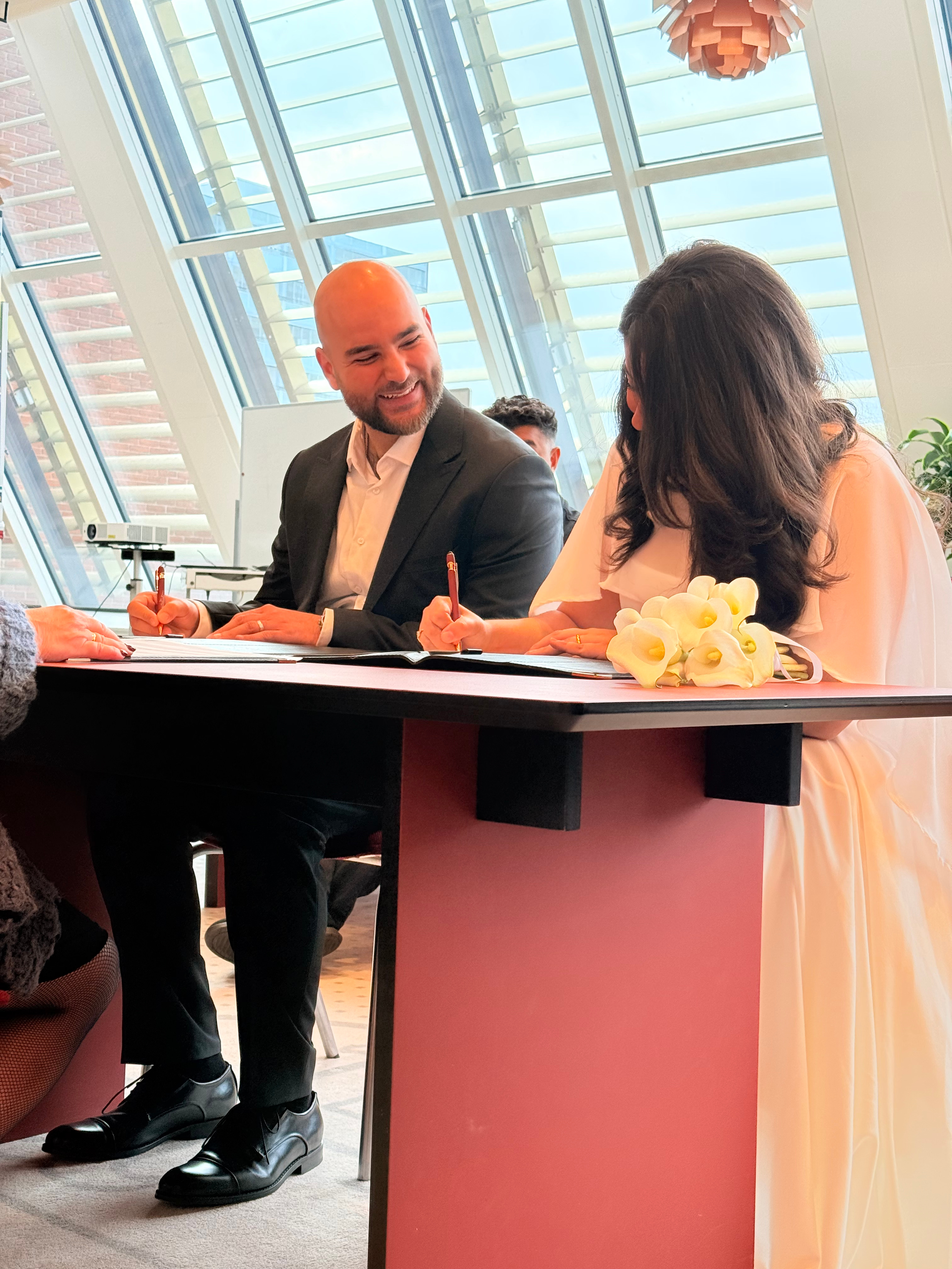
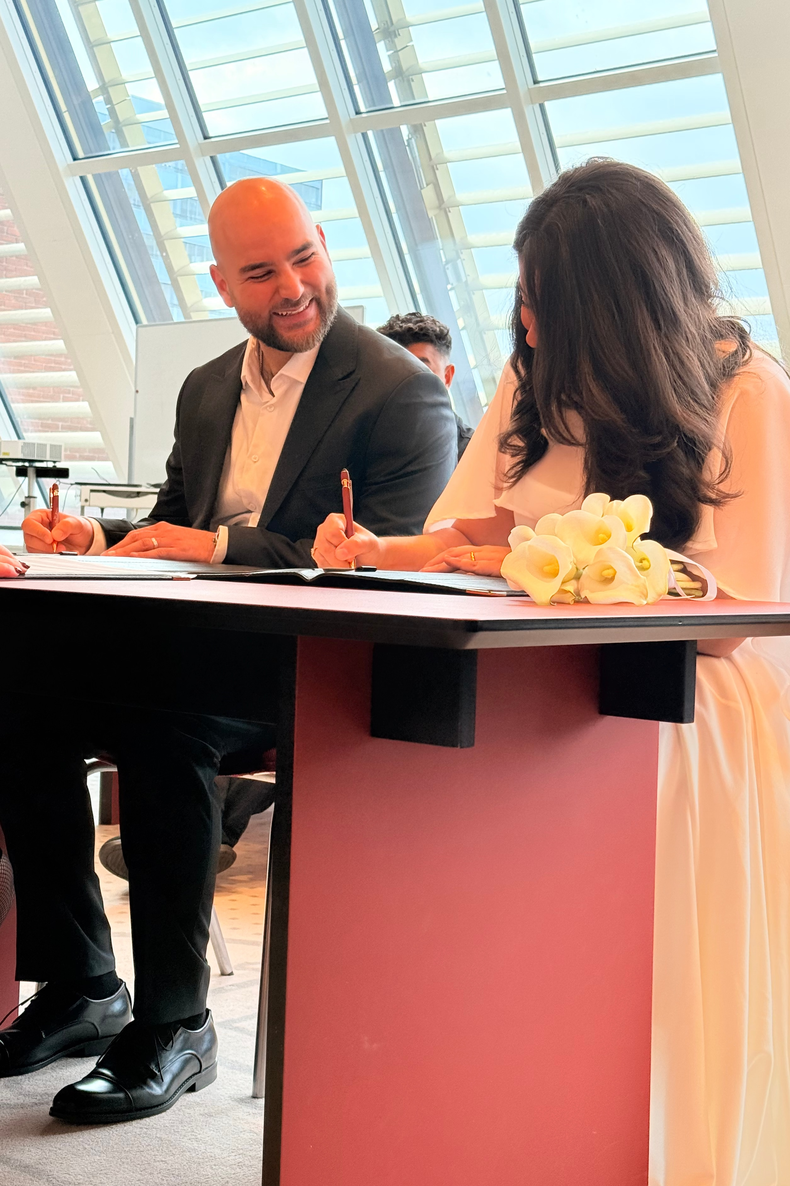
styling done

diff --git a/src/content/wedding.ts b/src/content/wedding.ts
@@ -1,6 +1,6 @@
 /**
  * Eneste kilde til sandhed for alt indhold på siden.
- * Ret tekster, tider og links her — ikke inde i komponenterne.
+ * Ret tekster, tider og links her - ikke inde i komponenterne.
  * Tekster skrives på både dansk (da) og engelsk (en).
  */
 
@@ -9,8 +9,8 @@ import { compose, type Text } from '../i18n';
 export const site = {
   url: 'https://aliogberfin.dk',
   title: {
-    da: 'Ali & Berfin — 12. december 2026',
-    en: 'Ali & Berfin — 12 December 2026',
+    da: 'Ali & Berfin - 12. december 2026',
+    en: 'Ali & Berfin - 12 December 2026',
   } satisfies Text,
   description: {
     da: 'Vi skal giftes! Ali Haider Mohammad og Berfin Flora Turan inviterer til bryllup lørdag den 12. december 2026 i Nisa Event Center, Ishøj.',
@@ -133,26 +133,6 @@ export const program: ProgramItem[] = [
   },
 ];
 
-/** Adressen skrives ét sted, så teksterne aldrig kan komme til at pege forkert. */
-const fullAddress = `${venue.street}, ${venue.postalCode} ${venue.city}`;
-
-export const transport: { title: Text; body: Text }[] = [
-  {
-    title: { da: 'Med tog', en: 'By train' },
-    body: {
-      da: 'Tag S-toget linje A eller E til Ishøj Station. Derfra er der cirka 3 km til lokalet — tag bus eller taxa den sidste del af vejen.',
-      en: 'Take S-train line A or E to Ishøj Station. From there it is about 3 km to the venue — take a bus or taxi for the last part of the way.',
-    },
-  },
-  {
-    title: { da: 'I bil', en: 'By car' },
-    body: {
-      da: `Sæt ${fullAddress} i GPS\u2019en. Der er gratis parkering ved adressen.`,
-      en: `Enter ${fullAddress} in your GPS. There is free parking at the address.`,
-    },
-  },
-];
-
 export const photoShare = {
   eyebrow: { da: 'Øjeblikke', en: 'Moments' } satisfies Text,
   heading: { da: 'Del billeder', en: 'Share photos' } satisfies Text,
@@ -169,10 +149,9 @@ export const photoShare = {
     da: 'Del dine billeder',
     en: 'Share your photos',
   } satisfies Text,
-  linkHint: { da: 'Eller åbn linket:', en: 'Or open the link:' } satisfies Text,
   photoAlt: {
-    da: 'Ali frier til Berfin på knæ under en bue af røde roser',
-    en: 'Ali proposing to Berfin on one knee beneath an arch of red roses',
+    da: 'Ali og Berfin smiler med vielsesattesten efter vielsen',
+    en: 'Ali and Berfin smiling with their marriage certificate after the ceremony',
   } satisfies Text,
 } as const;
 

diff --git a/tests/indhold.spec.ts b/tests/indhold.spec.ts
@@ -6,7 +6,7 @@ import { expect, test } from '@playwright/test';
  */
 
 test.beforeEach(async ({ page }) => {
-  // Gæstebogen har sin egen testfil — her holder vi den ude af vejen,
+  // Gæstebogen har sin egen testfil - her holder vi den ude af vejen,
   // så indholdstestene ikke afhænger af netværket.
   await page.route('**/api/guestbook', (route) =>
     route.fulfill({ json: { entries: [] } }),
@@ -39,7 +39,7 @@ test.describe('forside', () => {
 
   test('siden er på dansk', async ({ page }) => {
     await expect(page.locator('html')).toHaveAttribute('lang', 'da');
-    await expect(page).toHaveTitle('Ali & Berfin — 12. december 2026');
+    await expect(page).toHaveTitle('Ali & Berfin - 12. december 2026');
   });
 
   test('intet vandret overløb', async ({ page }) => {
@@ -129,7 +129,7 @@ test.describe('program', () => {
   });
 });
 
-test.describe('sted & transport', () => {
+test.describe('lokation', () => {
   test('viser navn og fuld adresse', async ({ page }) => {
     const section = page.locator('#sted');
     await expect(section).toContainText('Nisa Event Center');
@@ -173,12 +173,6 @@ test.describe('sted & transport', () => {
   test('kortet har en beskrivende titel', async ({ page }) => {
     const title = await page.locator('#sted iframe').getAttribute('title');
     expect(title).toContain('Nisa Event Center');
-  });
-
-  test('viser transportmuligheder', async ({ page }) => {
-    const section = page.locator('#sted');
-    await expect(section.getByText('Med tog')).toBeVisible();
-    await expect(section.getByText('I bil')).toBeVisible();
   });
 });
 

diff --git a/tests/sprog.spec.ts b/tests/sprog.spec.ts
@@ -43,7 +43,7 @@ test.describe('sprogvælger', () => {
       'aria-pressed',
       'true',
     );
-    await expect(page).toHaveTitle('Ali & Berfin — 12 December 2026');
+    await expect(page).toHaveTitle('Ali & Berfin - 12 December 2026');
 
     const hero = page.locator('#top');
     await expect(hero.getByText('Saturday 12 December 2026')).toBeVisible();
@@ -58,7 +58,9 @@ test.describe('sprogvælger', () => {
     await expect(page.locator('#program ol > li h3').first()).toHaveText(
       'Welcome',
     );
-    await expect(page.locator('#sted').getByText('By train')).toBeVisible();
+    await expect(
+      page.locator('#sted').getByText(/we begin at 16:00/),
+    ).toBeVisible();
     await expect(page.getByText('There are no messages yet.')).toBeVisible();
     await expect(page.getByLabel('Your name')).toBeVisible();
     await expect(
@@ -100,7 +102,7 @@ test.describe('sprogvælger', () => {
     await expect(page.locator('html')).toHaveAttribute('lang', 'da');
     await expect(page.locator('#program h2')).toHaveText('Program');
     await expect(page.getByText('Der er ingen hilsner endnu.')).toBeVisible();
-    await expect(page).toHaveTitle('Ali & Berfin — 12. december 2026');
+    await expect(page).toHaveTitle('Ali & Berfin - 12. december 2026');
   });
 
   test('husker valget ved næste besøg', async ({ page }) => {

diff --git a/netlify/functions/guestbook.ts b/netlify/functions/guestbook.ts
@@ -3,7 +3,7 @@ import { getStore } from '@netlify/blobs';
 
 /**
  * Proxy mellem siden og Google Apps Script.
- * URL og hemmelighed ligger kun her på serveren — aldrig i browseren.
+ * URL og hemmelighed ligger kun her på serveren - aldrig i browseren.
  */
 
 const MAX_NAME = 80;
@@ -23,7 +23,7 @@ const json = (body: unknown, statusCode: number) =>
 
 /**
  * Tæller indsendelser pr. IP i Netlify Blobs.
- * Blobs deles på tværs af funktionsinstanser — en tæller i hukommelsen ville
+ * Blobs deles på tværs af funktionsinstanser - en tæller i hukommelsen ville
  * blive nulstillet ved hver kold start og derfor reelt ikke begrænse noget.
  */
 const isRateLimited = async (ip: string) => {
@@ -42,7 +42,7 @@ const isRateLimited = async (ip: string) => {
     await store.setJSON(key, recent);
     return recent.length > RATE_LIMIT_MAX;
   } catch (error) {
-    // Blobs utilgængelig — bloker ikke rigtige gæster på grund af det.
+    // Blobs utilgængelig - bloker ikke rigtige gæster på grund af det.
     console.warn('Kunne ikke tjekke hastighedsgrænsen:', error);
     return false;
   }

diff --git a/src/styles/global.css b/src/styles/global.css
@@ -1,7 +1,7 @@
 @import 'tailwindcss';
 
 @theme {
-  /* Farver — dæmpet, elegant palet */
+  /* Farver - dæmpet, elegant palet */
   --color-canvas: #faf7f2;
   --color-surface: #ffffff;
   --color-sand: #ece3d7;
@@ -17,7 +17,7 @@
   --font-body:
     'Inter', -apple-system, BlinkMacSystemFont, 'Segoe UI', sans-serif;
 
-  /* Flydende skala — mobil først, skalerer op */
+  /* Flydende skala - mobil først, skalerer op */
   --text-hero: clamp(2.75rem, 14vw, 7rem);
   --text-section: clamp(1.75rem, 7vw, 3rem);
   --text-lead: clamp(1.0625rem, 3.5vw, 1.25rem);
@@ -145,7 +145,7 @@
   }
 }
 
-/* Blid indtoning ved scroll — slås fra for dem der foretrækker mindre bevægelse */
+/* Blid indtoning ved scroll - slås fra for dem der foretrækker mindre bevægelse */
 @media (prefers-reduced-motion: no-preference) {
   .reveal {
     opacity: 0;

diff --git a/tests/billeder-privatliv.spec.ts b/tests/billeder-privatliv.spec.ts
@@ -29,7 +29,7 @@ test.describe('del billeder', () => {
 
   test('linket peger på upload-siden og åbner i ny fane', async ({ page }) => {
     const links = page.locator(`#billeder a[href="${SHARE_URL}"]`);
-    await expect(links).toHaveCount(2);
+    await expect(links).toHaveCount(1);
 
     for (const link of await links.all()) {
       await expect(link).toHaveAttribute('target', '_blank');
@@ -39,14 +39,6 @@ test.describe('del billeder', () => {
     await expect(
       page.getByRole('link', { name: 'Del dine billeder' }),
     ).toBeVisible();
-  });
-
-  test('viser adressen som tekst, hvis QR-koden ikke kan bruges', async ({
-    page,
-  }) => {
-    await expect(page.locator('#billeder')).toContainText(
-      'join.once.film/f/Mu4oCyqC',
-    );
   });
 });
 

diff --git a/tests/gaestebog.spec.ts b/tests/gaestebog.spec.ts
@@ -7,7 +7,7 @@ import {
 } from './support/helpers';
 
 /**
- * Gæstebogen i browseren — formular, validering, moderation og sikkerhed.
+ * Gæstebogen i browseren - formular, validering, moderation og sikkerhed.
  */
 
 const goto = async (page: import('@playwright/test').Page) => {
@@ -71,7 +71,7 @@ test.describe('visning af hilsner', () => {
     );
     await goto(page);
 
-    // Ingen fejl i brugerens ansigt — bare den tomme tilstand.
+    // Ingen fejl i brugerens ansigt - bare den tomme tilstand.
     await expect(page.locator('#gaestebog')).toBeVisible();
     await expect(page.getByText('Der er ingen hilsner endnu.')).toBeVisible();
   });

diff --git a/tests/api.spec.ts b/tests/api.spec.ts
@@ -9,7 +9,7 @@ import {
 
 /**
  * Kontrakt for /api/guestbook (Netlify-funktionen).
- * Kører uden browser — vi tester funktionen direkte.
+ * Kører uden browser - vi tester funktionen direkte.
  */
 
 const post = (data: unknown) => ({
@@ -206,7 +206,7 @@ test.describe('gæstebog-api', () => {
     await setMockFailure(request, 'error');
     const res = await request.get('/api/guestbook');
 
-    // Siden skal stadig kunne vises — bare uden hilsner.
+    // Siden skal stadig kunne vises - bare uden hilsner.
     expect(res.status()).toBe(200);
     expect(await res.json()).toEqual({ entries: [] });
   });

diff --git a/playwright.config.ts b/playwright.config.ts
@@ -3,7 +3,7 @@ import { defineConfig, devices } from '@playwright/test';
 /**
  * Testene kører mod Netlify Dev, så både den statiske side og
  * gæstebogsfunktionen (/api/guestbook) testes som i produktion.
- * Apps Script erstattes af en lokal mock — se tests/support/mock-apps-script.mjs.
+ * Apps Script erstattes af en lokal mock - se tests/support/mock-apps-script.mjs.
  */
 
 export const MOCK_PORT = 9999;

diff --git a/plan.md b/plan.md
@@ -1,4 +1,4 @@
-# Plan: Bryllupssite — aliogberfin.dk
+# Plan: Bryllupssite - aliogberfin.dk
 
 A Danish, mobile-first, elegant one-page wedding invitation built with **Astro + Tailwind CSS**,
 deployed to **Netlify** from day one so there is always a shareable link. Five sections, one small
@@ -14,16 +14,16 @@ backend (the guestbook). Countdown targets **12. december 2026, kl. 16:00** at
 
 ## Steps
 
-### Phase 1 — Scaffold & first deploy (blocks everything)
+### Phase 1 - Scaffold & first deploy (blocks everything)
 
 1. Initialise Astro 5 with TypeScript, add Tailwind CSS v4, Prettier and a `.nvmrc`.
    Set `output: 'static'`, `site: 'https://aliogberfin.dk'`, `lang="da"`.
 2. Create `netlify.toml` (build command, publish dir, Node version, security headers).
    Connect the repo to Netlify and confirm the temporary `*.netlify.app` URL renders.
 
-### Phase 2 — Design foundation (depends on 1)
+### Phase 2 - Design foundation (depends on 1)
 
-3. Define design tokens in `src/styles/global.css` — restrained palette
+3. Define design tokens in `src/styles/global.css` - restrained palette
    (off-white / warm sand / deep ink / one accent), a serif display font paired with a clean
    sans, fluid type scale, generous whitespace. Mobile-first breakpoints that only scale _up_.
 4. Build the shell: `BaseLayout.astro`, sticky nav collapsing to a hamburger sheet on mobile,
@@ -33,36 +33,36 @@ backend (the guestbook). Countdown targets **12. december 2026, kl. 16:00** at
    `2026-12-12T16:00:00+01:00` with Danish labels (dage / timer / minutter / sekunder)
    and an "I dag er dagen!" end state.
 
-### Phase 3 — Content sections (depends on 2; steps 6–8 parallel)
+### Phase 3 - Content sections (depends on 2; steps 6–8 parallel)
 
-6. `Program` — vertical timeline anchored on the confirmed **16:00** start, with the later items
+6. `Program` - vertical timeline anchored on the confirmed **16:00** start, with the later items
    (reception, middag, fest) as clearly-marked placeholders in a data file, editable in one line.
-7. `Sted & transport` — venue card for Nisa Event Center, Industrivangen 26, 2635 Ishøj;
+7. `Sted & transport` - venue card for Nisa Event Center, Industrivangen 26, 2635 Ishøj;
    embedded OpenStreetMap iframe with coordinates geocoded from the real address (verified
    visually, not guessed), plus buttons deep-linking to Google Maps and Apple Maps. No API key.
    A short note on S-tog to Ishøj Station and parking goes here once details are confirmed.
-8. `FAQ` — native `<details>/<summary>` accordion, zero JavaScript, fully accessible.
+8. `FAQ` - native `<details>/<summary>` accordion, zero JavaScript, fully accessible.
    Starts with a few placeholder questions to edit.
 
-### Phase 4 — Gallery & guestbook (depends on 2; step 9 parallel with 10–11)
+### Phase 4 - Gallery & guestbook (depends on 2; step 9 parallel with 10–11)
 
-9. `Galleri` — Astro's `<Image>` for automatic responsive/WebP output, fed by placeholders in
+9. `Galleri` - Astro's `<Image>` for automatic responsive/WebP output, fed by placeholders in
    `src/assets/gallery/` with Danish alt text, plus a lightweight tap-to-enlarge lightbox.
    Real photos later are a drop-in swap.
 10. Create the Google Sheet with a `Gaestebog` tab and attach an Apps Script Web App exposing
     `doPost` (append) and `doGet` (return approved entries), guarded by a shared secret and
     deployed as "Anyone".
-11. Build `netlify/functions/guestbook.ts` — validates name + message, checks a honeypot field,
+11. Build `netlify/functions/guestbook.ts` - validates name + message, checks a honeypot field,
     applies a per-IP rate limit, then forwards to Apps Script using `APPS_SCRIPT_URL` and
     `APPS_SCRIPT_SECRET` from Netlify env vars. Secrets never reach the browser. The section
     renders approved entries fetched on page load; moderation is a checkbox in the sheet.
 
-### Phase 5 — Domain, privacy & polish (depends on all)
+### Phase 5 - Domain, privacy & polish (depends on all)
 
 12. Register `aliogberfin.dk` via a DK Hostmaster-accredited registrar (Simply.com, one.com,
     UnoEuro), point DNS at Netlify, enable the free Let's Encrypt certificate and HTTPS redirect.
 13. Privacy: `robots.txt` with `Disallow: /`, `<meta name="robots" content="noindex, nofollow">`,
-    no sitemap — the link works for anyone it is sent to but won't surface in Google.
+    no sitemap - the link works for anyone it is sent to but won't surface in Google.
 14. Polish: Open Graph / social preview card so the link looks good in WhatsApp and iMessage,
     favicon, `prefers-reduced-motion` support, keyboard navigation, colour-contrast check,
     Lighthouse tuning.
@@ -71,19 +71,19 @@ backend (the guestbook). Countdown targets **12. december 2026, kl. 16:00** at
 
 All to be created:
 
-- `astro.config.mjs` — static output, site URL, Tailwind integration
-- `netlify.toml` — build settings, functions directory, security headers
-- `src/layouts/BaseLayout.astro` — `lang="da"`, meta/OG tags, noindex
-- `src/pages/index.astro` — composes the sections in order
-- `src/components/` — `Nav.astro`, `Hero.astro`, `Countdown.astro`, `Program.astro`,
+- `astro.config.mjs` - static output, site URL, Tailwind integration
+- `netlify.toml` - build settings, functions directory, security headers
+- `src/layouts/BaseLayout.astro` - `lang="da"`, meta/OG tags, noindex
+- `src/pages/index.astro` - composes the sections in order
+- `src/components/` - `Nav.astro`, `Hero.astro`, `Countdown.astro`, `Program.astro`,
   `Venue.astro`, `Gallery.astro`, `Faq.astro`, `Guestbook.astro`, `Footer.astro`
-- `src/content/wedding.ts` — **single source of truth** for all Danish copy, the date/time,
+- `src/content/wedding.ts` - **single source of truth** for all Danish copy, the date/time,
   venue address, map coordinates and links. Edit here, never in components.
-- `src/styles/global.css` — Tailwind v4 `@theme` tokens, fonts, base styles
-- `netlify/functions/guestbook.ts` — validation + forwarding
-- `google-apps-script/Code.gs` — kept in-repo for reference, pasted into the Apps Script editor
-- `public/robots.txt`, `public/favicon.svg`, `src/assets/` — placeholders
-- `.env.example` — documents `APPS_SCRIPT_URL`, `APPS_SCRIPT_SECRET`
+- `src/styles/global.css` - Tailwind v4 `@theme` tokens, fonts, base styles
+- `netlify/functions/guestbook.ts` - validation + forwarding
+- `google-apps-script/Code.gs` - kept in-repo for reference, pasted into the Apps Script editor
+- `public/robots.txt`, `public/favicon.svg`, `src/assets/` - placeholders
+- `.env.example` - documents `APPS_SCRIPT_URL`, `APPS_SCRIPT_SECRET`
 
 ## Verification
 
@@ -104,17 +104,17 @@ All to be created:
 
 ## Decisions
 
-- **Danish only** — no i18n framework.
-- **One long scrolling page** with anchor navigation — best on mobile, and five sections keeps
+- **Danish only** - no i18n framework.
+- **One long scrolling page** with anchor navigation - best on mobile, and five sections keeps
   it short.
-- **No attendance confirmation of any kind** — the site is purely an invitation, so no RSVP form
+- **No attendance confirmation of any kind** - the site is purely an invitation, so no RSVP form
   and no "contact us to confirm" CTA.
-- **Guestbook kept** — the only backend, worth the small amount of setup.
+- **Guestbook kept** - the only backend, worth the small amount of setup.
 - **Excluded**: RSVP, dresscode, gift/wishlist, accommodation & travel info, "our story",
   per-guest links, multi-language.
-- **Apps Script over Netlify Forms** — live Google Sheet, no submission cap
+- **Apps Script over Netlify Forms** - live Google Sheet, no submission cap
   (Netlify's free tier caps at 100 submissions/month and only exports CSV).
-- **OpenStreetMap over Google Maps embed** — no API key, no billing account,
+- **OpenStreetMap over Google Maps embed** - no API key, no billing account,
   no third-party cookies.
 - **Unknowns handled as marked placeholders**: the program beyond 16:00, the FAQ questions,
   and the photos. Layout gets finished now; blanks are filled later with single-line edits
@@ -126,5 +126,5 @@ All to be created:
 1. **Register the domain early.** The `.dk` registration is a manual step, and DK Hostmaster
    registrations can take a day or two to propagate. The site runs fine on the Netlify URL
    meanwhile.
-2. **Ceremony vs. reception at 16:00** — the 16:00 entry is labelled "Ankomst & vielse" by
+2. **Ceremony vs. reception at 16:00** - the 16:00 entry is labelled "Ankomst & vielse" by
    default; easy to change in the program data file.
